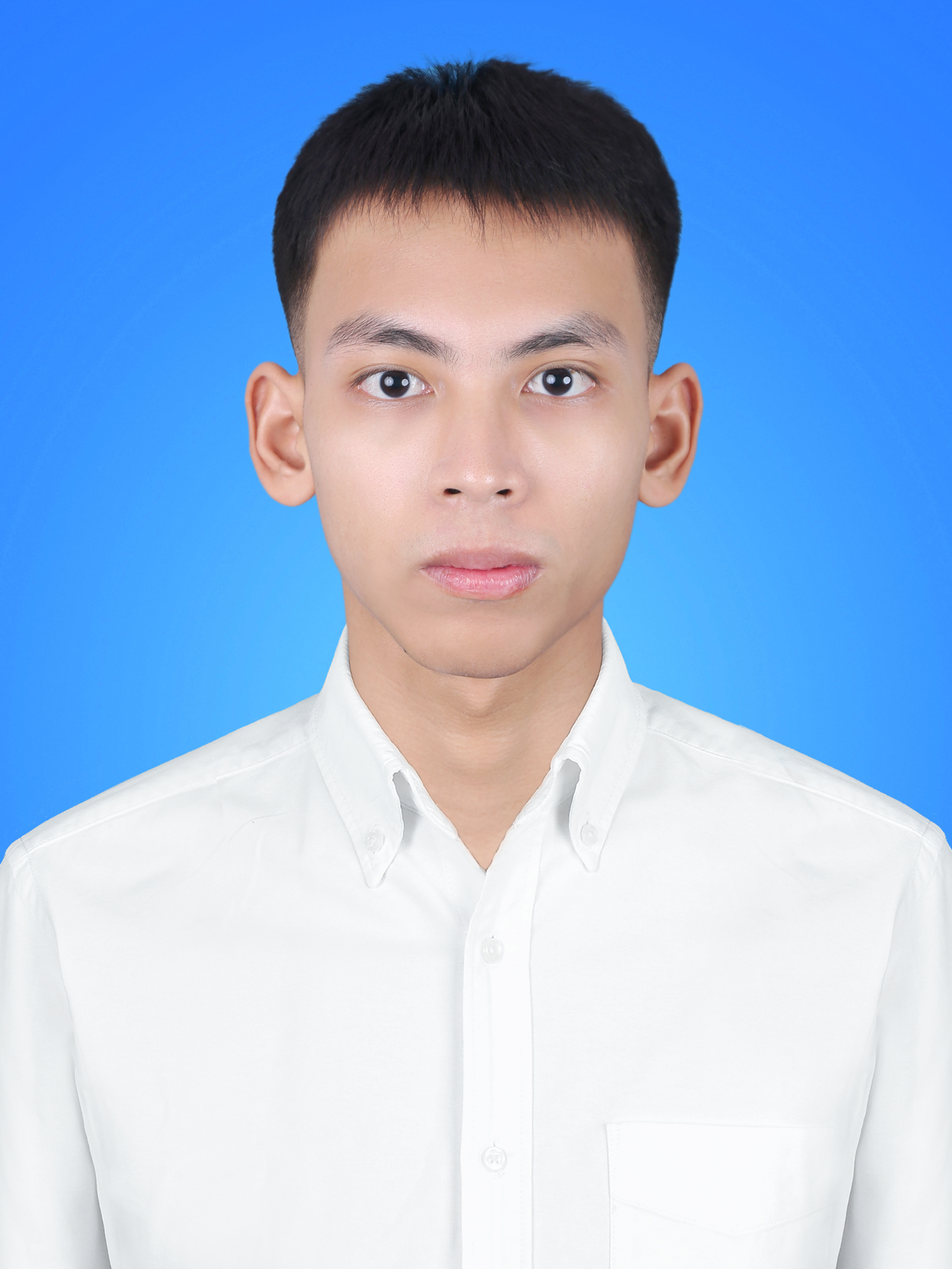
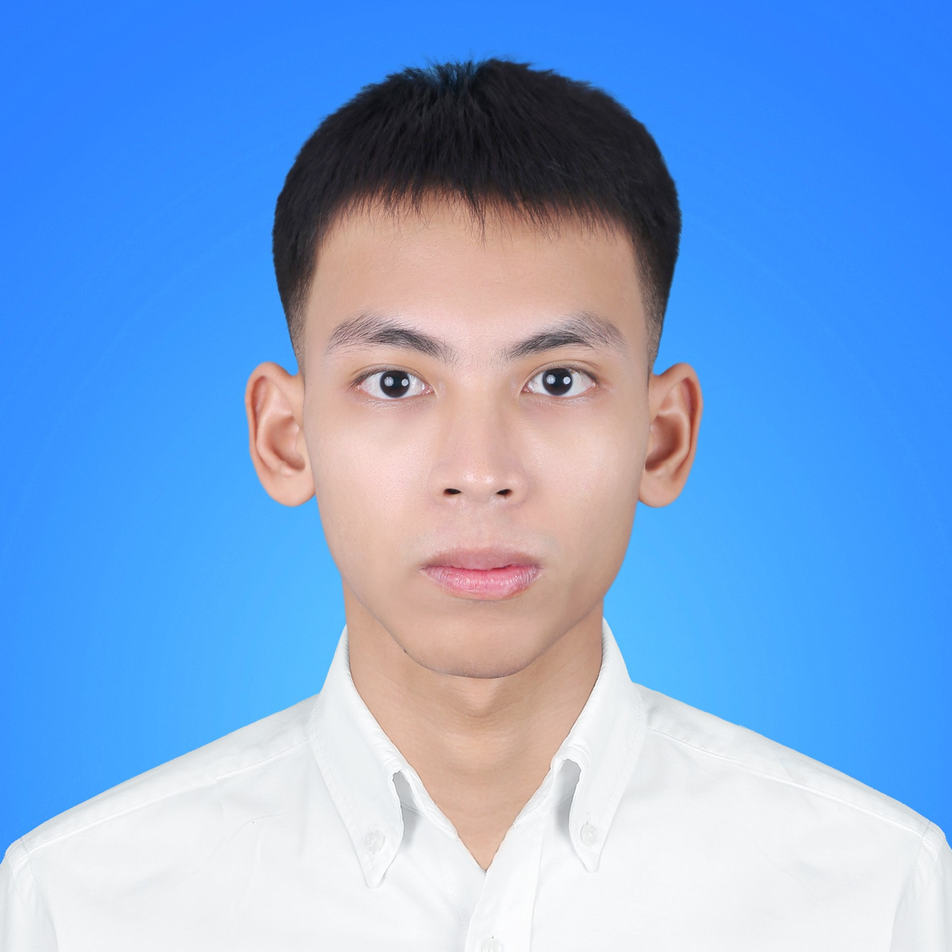
Fixed : changed profile pic

diff --git a/lib/src/features/pages/home_content.dart b/lib/src/features/pages/home_content.dart
@@ -100,7 +100,7 @@ class _HomeContentState extends State<HomeContent> {
       ),
       child: ClipOval(
         child: Image.network(
-          'assets/images/profile2.jpg',
+          'assets/images/profile.jpg',
           width: fixedSized ?? 300,
           height: fixedSized ?? 300,
           fit: BoxFit.cover,
